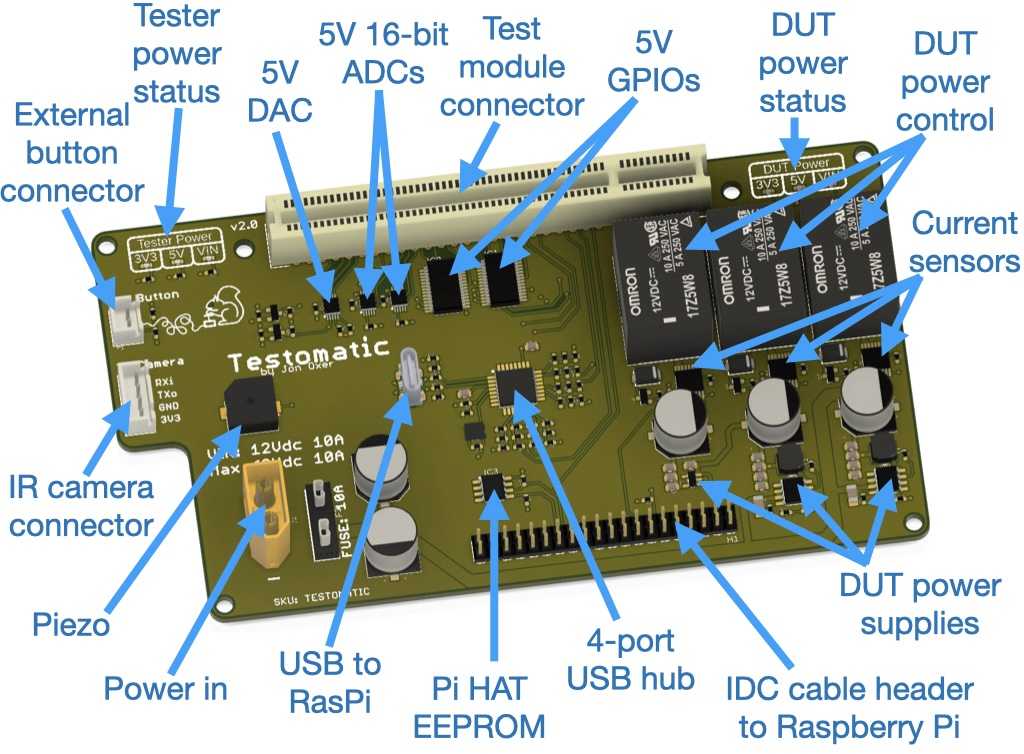
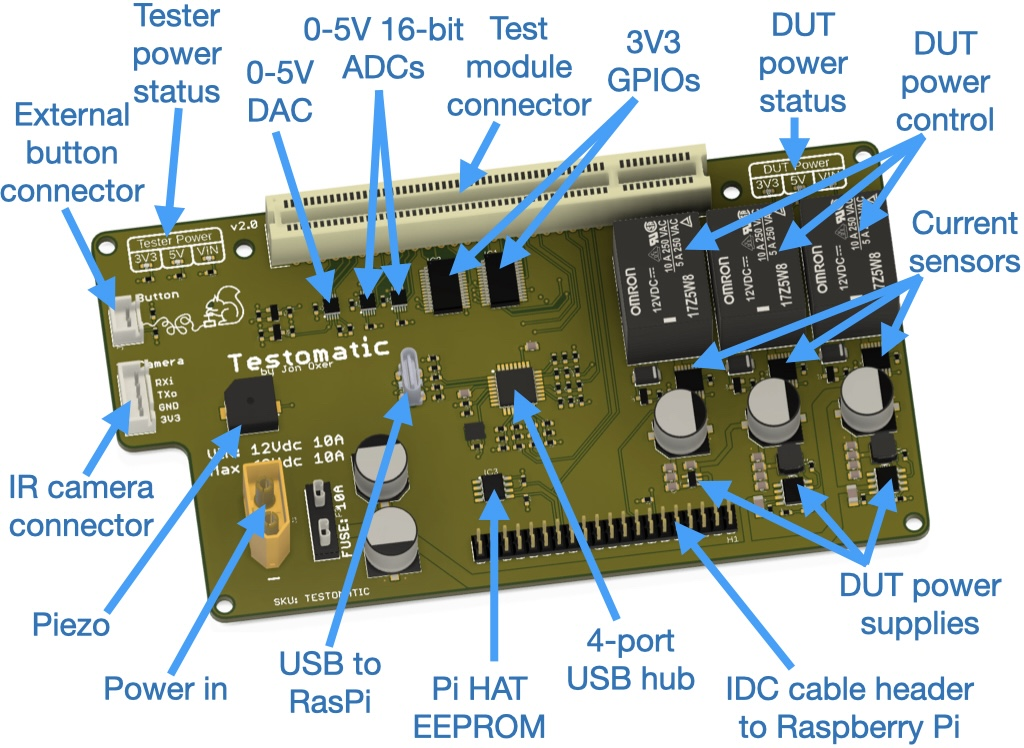
Fixed GPIO voltage in docs.

diff --git a/README.md b/README.md
@@ -46,9 +46,9 @@ between the Testomatic system and the test pins:
 A reference design for the TPCB has been created as a starting point for making DUT-specific versions.
 
 ## Features
-* 24 x 5V GPIOs.
-* 16 x 5V 16-bit ADCs (8 currently implemented).
-* 16 x 5V DACs (4 currently implemented).
+* 24 x 3V3 GPIOs.
+* 16 x 0-5V 16-bit ADCs (8 currently implemented).
+* 16 x 0-5V DACs (4 currently implemented).
 * 4-port USB hub passed up to test module.
 * SPI and I2C passed up to test module.
 * Pi HAT EEPROM on Testomatic PCB for compliance with HAT automatic configuration.
